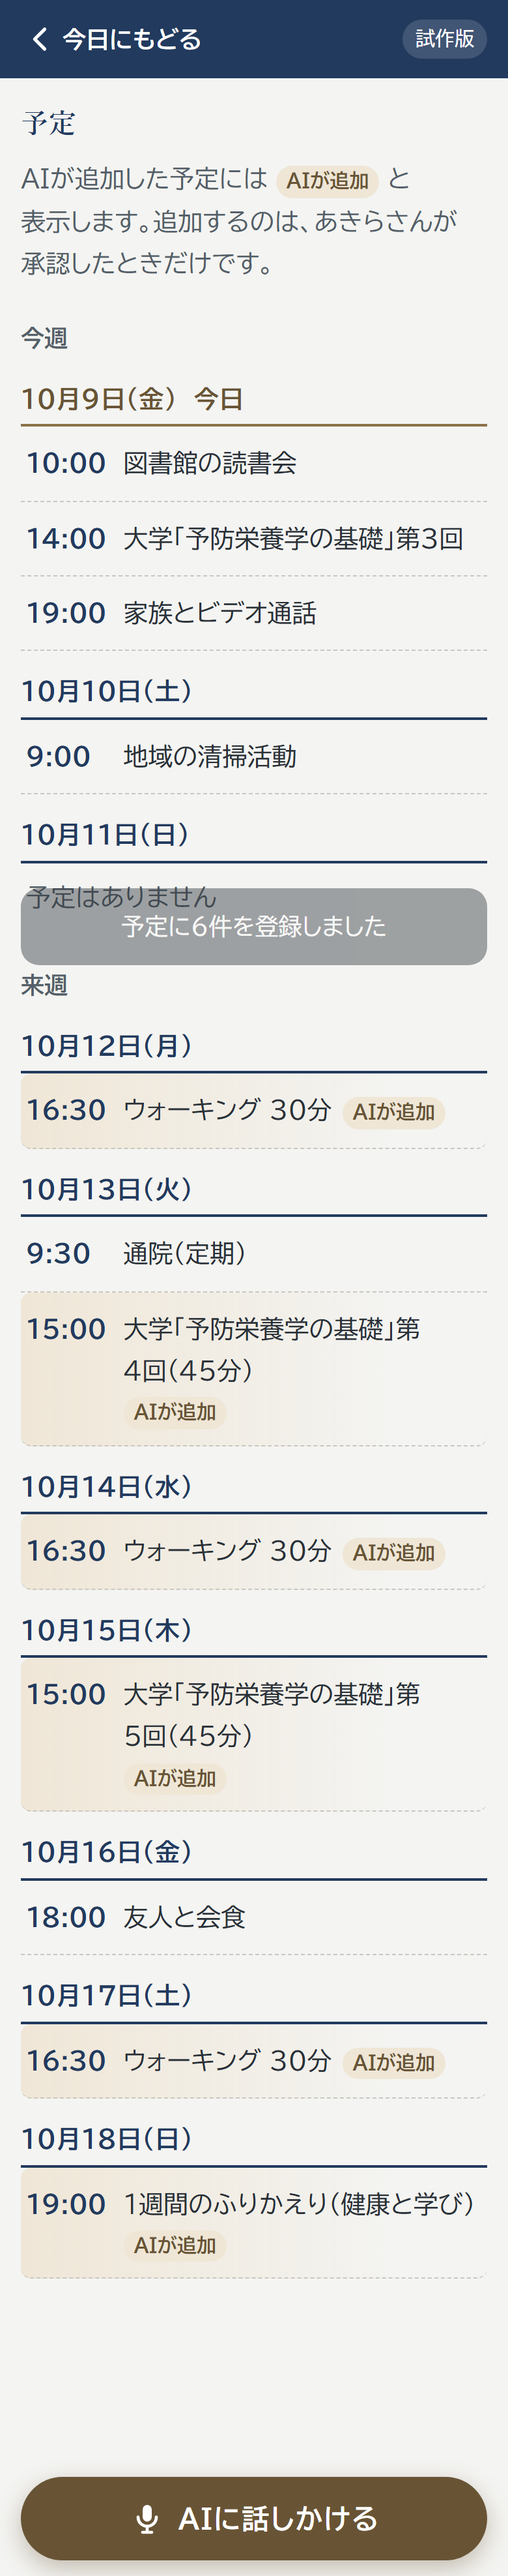
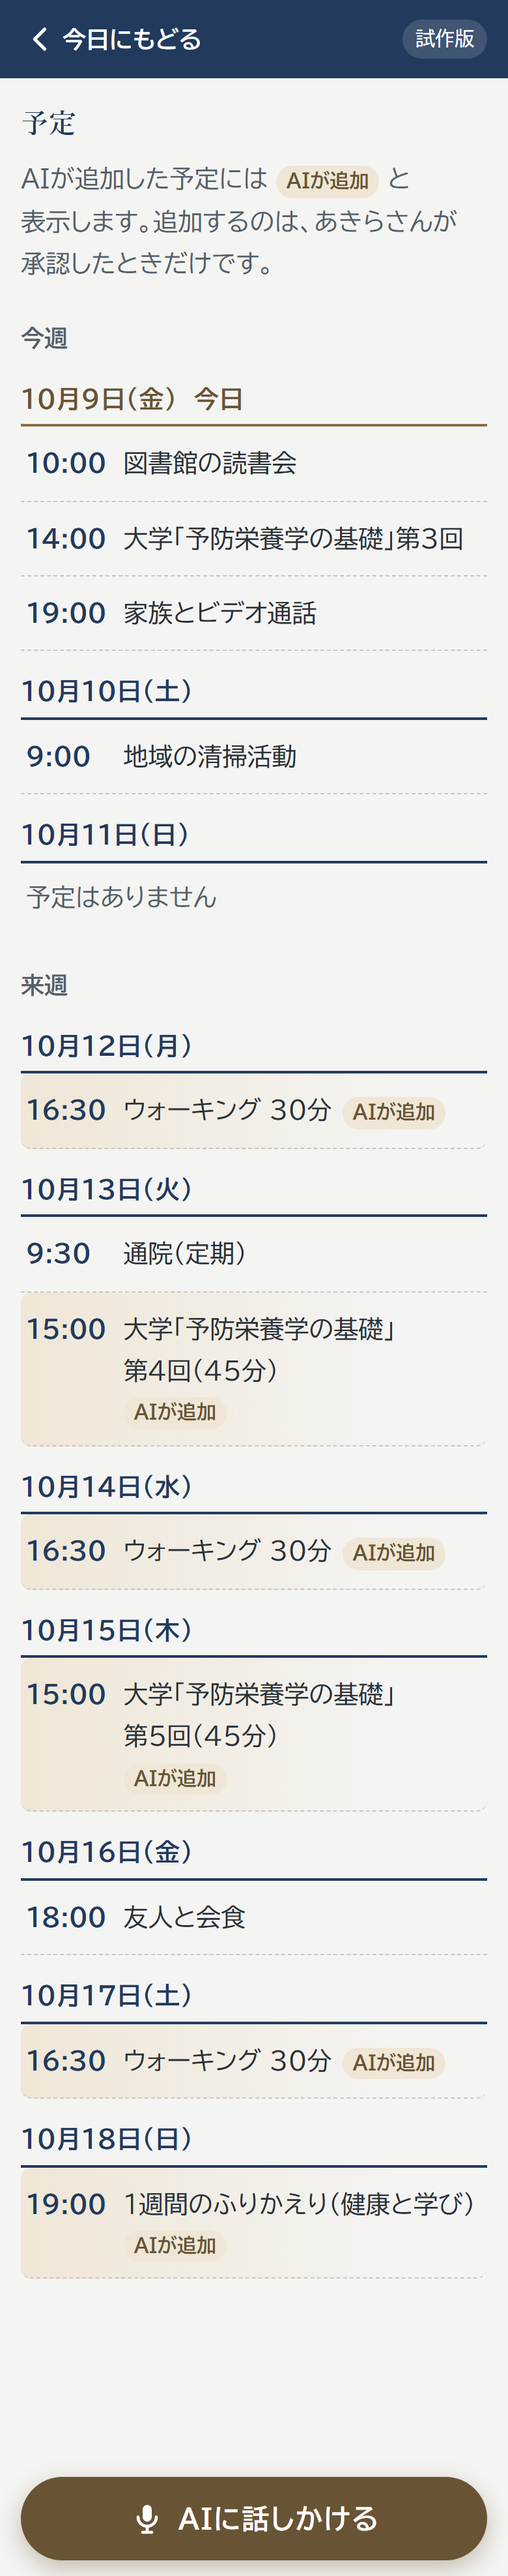
審査ラウンド2の指摘を反映：「第N回」の途中で改行しない／忘れた記憶は提案の中身にも使わない／記憶0件の返事／撮影時に通知を写さない

diff --git a/app.js b/app.js
@@ -81,6 +81,8 @@
       return { '&': '&amp;', '<': '&lt;', '>': '&gt;', '"': '&quot;', "'": '&#39;' }[c];
     });
   }
+  // 「第4回（45分）」のような語の途中で行が割れないようにする
+  function t(s) { return esc(s).replace(/(第\d+回(?:（\d+分）)?|\d+分)/g, '<span class="nw">$1</span>'); }
   function byTime(a, b) {
     var ta = a.time.split(':'), tb = b.time.split(':');
     return (+ta[0] * 60 + +ta[1]) - (+tb[0] * 60 + +tb[1]);
@@ -125,15 +127,17 @@
   // ---------- 台本（AIの返事） ----------
   function remembers(re) { return state.memories.some(function (m) { return re.test(m.text); }); }
   function walkTime() { return state.walkEvening ? '16:30' : '7:00'; }
+  function walkTitle() { return remembers(/30分/) ? 'ウォーキング 30分' : 'ウォーキング'; }
+  function studyTime() { return remembers(/午後/) ? '15:00' : '10:00'; }
   function reviewTime() { return remembers(/日曜の夜/) ? '16:00' : '19:00'; }
   function buildPlan() {
     var w = walkTime();
     return [
-      { date: key(nextWeek(1)), time: w, title: 'ウォーキング 30分', kind: 'walk' },
-      { date: key(nextWeek(2)), time: '15:00', title: '大学「予防栄養学の基礎」第4回（45分）', kind: 'univ', univ: true },
-      { date: key(nextWeek(3)), time: w, title: 'ウォーキング 30分', kind: 'walk' },
-      { date: key(nextWeek(4)), time: '15:00', title: '大学「予防栄養学の基礎」第5回（45分）', kind: 'univ', univ: true },
-      { date: key(nextWeek(6)), time: w, title: 'ウォーキング 30分', kind: 'walk' },
+      { date: key(nextWeek(1)), time: w, title: walkTitle(), kind: 'walk' },
+      { date: key(nextWeek(2)), time: studyTime(), title: '大学「予防栄養学の基礎」第4回（45分）', kind: 'univ', univ: true },
+      { date: key(nextWeek(3)), time: w, title: walkTitle(), kind: 'walk' },
+      { date: key(nextWeek(4)), time: studyTime(), title: '大学「予防栄養学の基礎」第5回（45分）', kind: 'univ', univ: true },
+      { date: key(nextWeek(6)), time: w, title: walkTitle(), kind: 'walk' },
       { date: key(nextWeek(0)), time: reviewTime(), title: '1週間のふりかえり（健康と学び）', kind: 'review' }
     ];
   }
@@ -176,12 +180,13 @@
       case 'thu':
         var thu = nextWeek(4), evs = eventsOn(key(thu));
         var busy = evs.length ? evs.map(function (e) { return e.time + '〜 ' + e.title; }).join('、') : '予定は入っていません';
-        return { kind: 'text', html: esc(label(thu)) + 'は、' + esc(busy) + '。<br>朝7時ごろなら空いています。いつもの30分のウォーキングはいかがですか？' };
+        return { kind: 'text', html: esc(label(thu)) + 'は、' + esc(busy) + '。<br>朝7時ごろなら空いています。' + (remembers(/30分/) ? 'いつもの30分のウォーキングはいかがですか？' : 'ウォーキングはいかがですか？') };
       case 'univ':
         var nextU = state.events.filter(function (e) { return e.univ && fromKey(e.date) > TODAY; }).sort(function (a, b) { return a.date < b.date ? -1 : 1; })[0];
         if (nextU) return { kind: 'text', html: '次の授業は <b>' + esc(label(fromKey(nextU.date)) + ' ' + nextU.time) + '</b> の「' + esc(nextU.title.replace(/^大学「予防栄養学の基礎」/, '')) + '」です。<br><a href="#/univ">大学を開く</a>' };
         return { kind: 'text', html: '今日の14時の第3回のあと、第4回はまだ予定に入っていません。<br>「来週の予定に、運動と大学の勉強を組み込んで」と言っていただければ、空いている時間を探します。' };
       case 'me':
+        if (!state.memories.length) return { kind: 'text', html: 'いまは、覚えていることはありません。覚えてほしいことがあれば、話しかけてください。<br><a href="#/memory">覚えていることを見る</a>' };
         return { kind: 'text', html: 'いま覚えていることは ' + state.memories.length + ' 件です。たとえば「' + esc(state.memories[0] ? state.memories[0].text : '') + '」など。<br>直したいこと・忘れてほしいことは、いつでも変えられます。<br><a href="#/memory">覚えていることを見る</a>' };
       default:
         return { kind: 'text', html: 'この試作版では、下の「話しかける例」から試せます。<br>製品版では、どんな言い方でも受けとめて、予定やタスクに落とし込みます。' };
@@ -267,7 +272,7 @@
       (state.guideClosed ? '' :
       '<section class="guide" aria-label="この試作版の見どころ">' +
         '<h2>はじめての方へ　3分の見どころ</h2>' +
-        '<ol><li>下の「相談する」を押す</li><li>AIの提案を見て「この予定で登録する」</li><li>「予定」に入ったことを確かめる</li><li>「覚えていること」で、AIが何を覚えているかを見る</li></ol>' +
+        '<ol><li>下の「相談する」を押す</li><li>AIの提案を見て「<span class="nw">この予定で登録する</span>」</li><li>「予定」に入ったことを確かめる</li><li>「覚えていること」で、AIが何を覚えているかを見る</li></ol>' +
         '<div class="row"><button class="btn quiet" data-act="close-guide">わかりました</button></div>' +
       '</section>') +
       '<section class="ai-hint">' +
@@ -278,7 +283,7 @@
       '</section>' +
       '<div class="stack" style="margin-top:18px">' +
         '<a class="card summary" href="#/schedule"><div class="summary-head"><h2>今日の予定</h2><span class="count">' + evs.length + '件</span></div>' +
-          '<ul>' + evs.map(function (e) { return '<li><span class="time">' + esc(e.time) + '</span><span>' + esc(e.title) + '</span></li>'; }).join('') + '</ul>' +
+          '<ul>' + evs.map(function (e) { return '<li><span class="time">' + esc(e.time) + '</span><span>' + t(e.title) + '</span></li>'; }).join('') + '</ul>' +
         '</a>' +
         '<a class="card summary" href="#/tasks"><div class="summary-head"><h2>今日のやること</h2><span class="count">' + tks.length + '件</span></div>' +
           '<ul>' + tks.map(function (t) { return '<li><span>' + (t.done ? '✓ ' : '・') + esc(t.title) + '</span></li>'; }).join('') + '</ul>' +
@@ -303,7 +308,7 @@
       return '<div class="bubble wide" data-testid="plan-card">' +
         '<p>来週は <b>火曜の午前に通院</b>、<b>金曜の夜に友人と会食</b>がありますね。空いている時間に、こんな計画はいかがでしょうか。</p>' +
         '<div class="plan"><ul>' + plan.map(function (p) {
-          return '<li><span class="d">' + esc(label(fromKey(p.date))) + '　<span class="t">' + esc(p.time) + '</span></span><span>' + esc(p.title) + '</span></li>';
+          return '<li><span class="d">' + esc(label(fromKey(p.date))) + '　<span class="t">' + esc(p.time) + '</span></span><span>' + t(p.title) + '</span></li>';
         }).join('') + '</ul></div>' +
         '<div class="why"><h3>こう考えました</h3><ul>' +
           (b.why || []).map(function (r) { return '<li>' + esc(r[0]) + ' <span class="from">' + esc(r[1]) + '</span></li>'; }).join('') +
@@ -383,7 +388,7 @@
       var evs = eventsOn(key(d));
       return '<section class="day' + (key(d) === key(TODAY) ? ' is-today' : '') + '"><h2>' + esc(label(d)) + (key(d) === key(TODAY) ? '　今日' : '') + '</h2>' +
         (evs.length ? evs.map(function (e) {
-          return '<div class="ev' + (e.ai ? ' ai' : '') + '"' + (e.ai ? ' data-ai="1"' : '') + '><span class="time">' + esc(e.time) + '</span><span class="title"><span>' + esc(e.title) + '</span>' + (e.ai ? '<span class="badge-ai">AIが追加</span>' : '') + '</span></div>';
+          return '<div class="ev' + (e.ai ? ' ai' : '') + '"' + (e.ai ? ' data-ai="1"' : '') + '><span class="time">' + esc(e.time) + '</span><span class="title"><span>' + t(e.title) + '</span>' + (e.ai ? '<span class="badge-ai">AIが追加</span>' : '') + '</span></div>';
         }).join('') : '<p class="empty">予定はありません</p>') +
       '</section>';
     }
@@ -488,7 +493,7 @@
         break;
       case 'mem-accept':
         var c = state.candidates.find(function (x) { return x.id === id; });
-        if (c) { state.memories.unshift({ id: nid('m'), text: c.text, src: c.src + '（承認ずみ）' }); }
+        if (c) { state.memories.unshift({ id: nid('m'), text: c.text, src: c.src + '・承認ずみ' }); }
         state.candidates = state.candidates.filter(function (x) { return x.id !== id; });
         save(); renderMemory(); toast('覚えました'); break;
       case 'mem-reject':

diff --git a/styles.css b/styles.css
@@ -108,6 +108,7 @@ svg { display: block; }
 .section-title { font-size: 21px; color: var(--navy); margin: 28px 0 12px; }
 .lead { color: var(--muted); }
 .small { font-size: 18px; color: var(--muted); }
+.nw { white-space: nowrap; }
 .section-title .small { font-family: var(--sans); font-weight: 400; }
 .hello .note { margin-top: 8px; font-size: 18px; color: var(--muted); }
 .btn {
